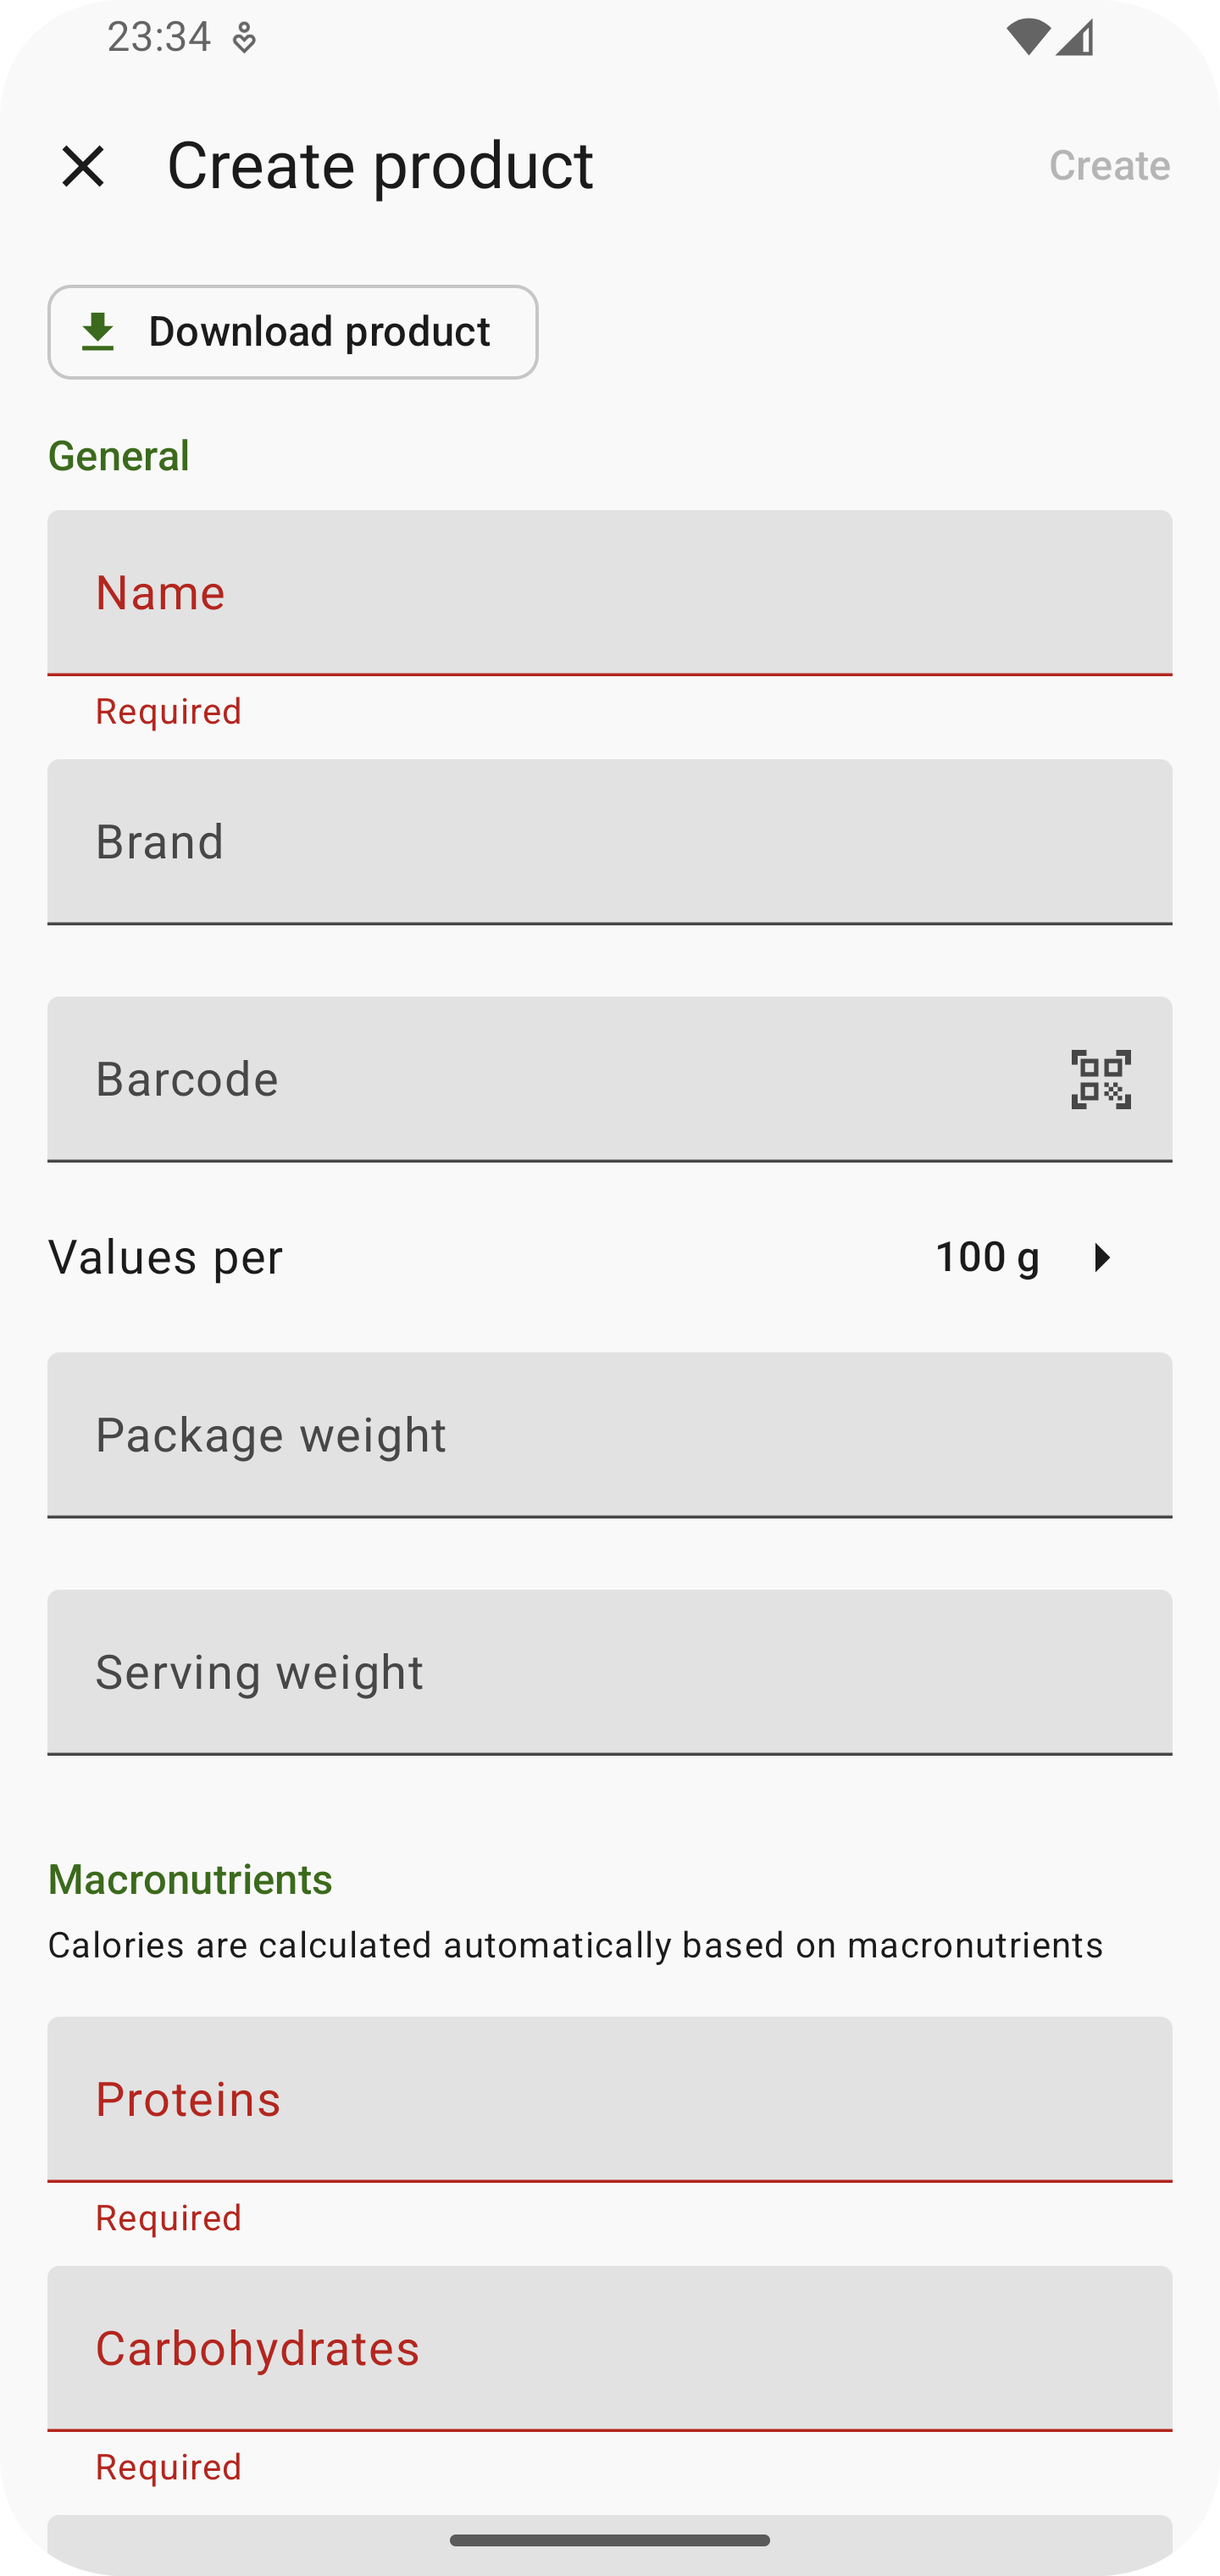
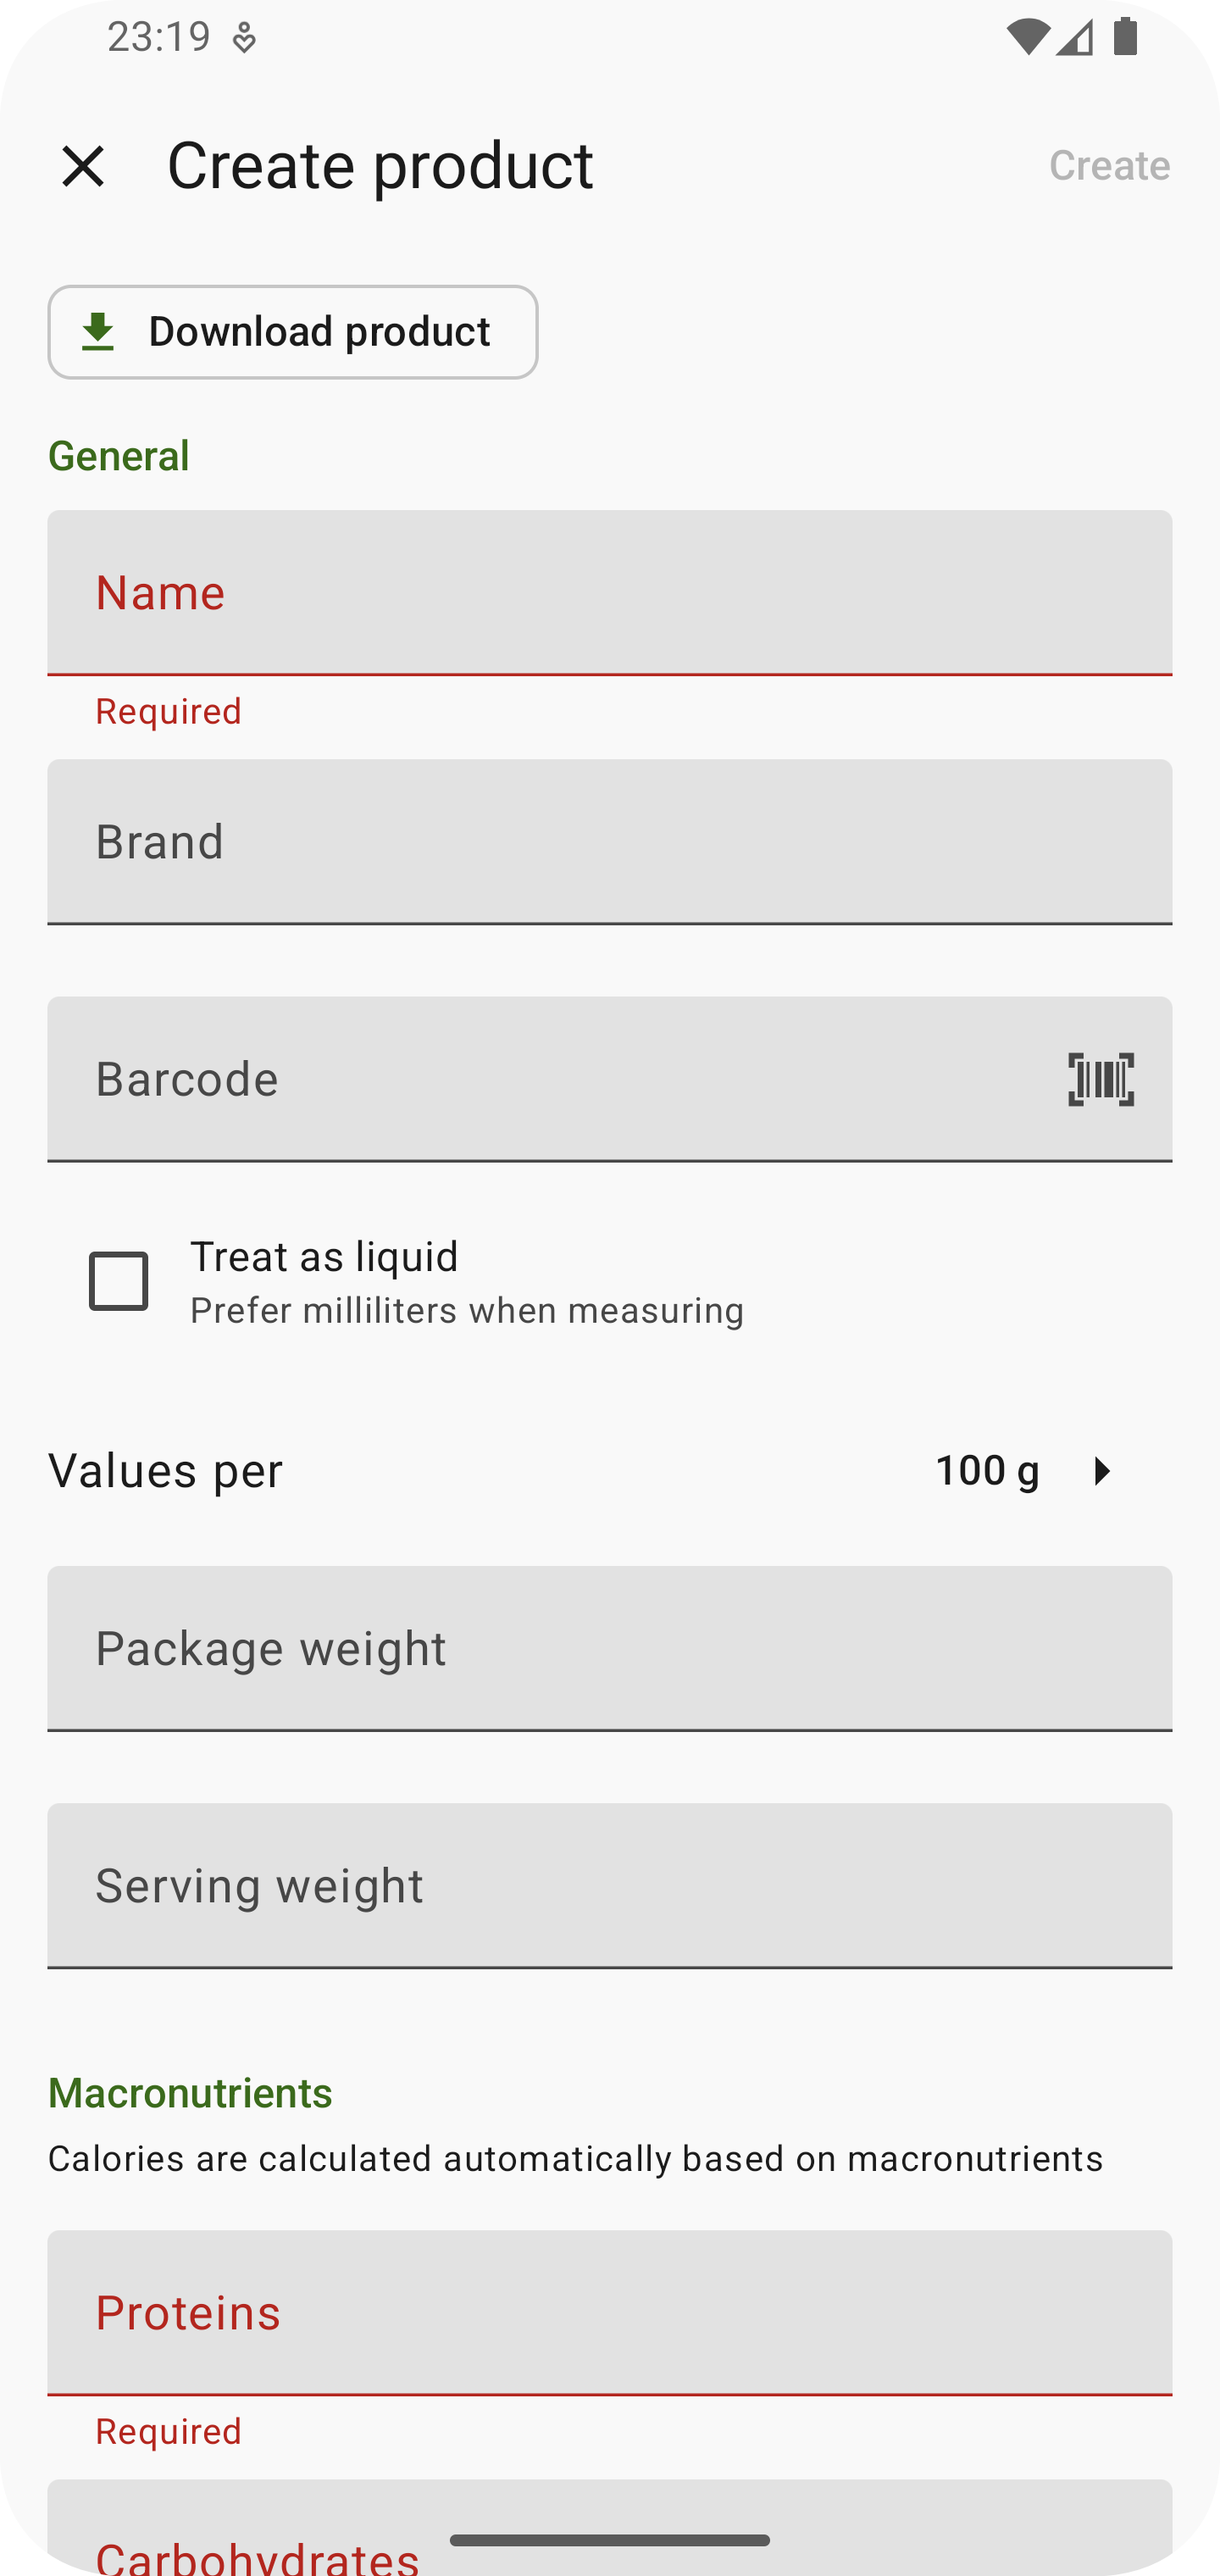
chore: release 2.9.0 (#166)

diff --git a/app/src/commonMain/kotlin/com/maksimowiczm/foodyou/data/Changelog.kt b/app/src/commonMain/kotlin/com/maksimowiczm/foodyou/data/Changelog.kt
@@ -15,7 +15,7 @@ import org.jetbrains.compose.resources.stringResource
 object Changelog {
     val versions
         get() = listOf(
-            next,
+            v2_9_0,
             v2_8_0,
             v2_7_2,
             v2_7_1,
@@ -32,16 +32,19 @@ object Changelog {
             v2_0_0
         )
 
-    val next = Version.next(
+    val v2_9_0 = Version(
+        version = "2.9.0",
+        date = LocalDate(2025, 6, 18),
         newFeatures = listOf(
             "Added donation screen. You can now support the app development by donating.",
             "Added liquid food. You can now create and track liquid products and recipes.",
             "Added personalization settings",
-            "Added nutrition facts personalization: You can now choose which nutrition facts to display and in what order within the app."
+            "Added nutrition facts personalization. You can now choose which nutrition facts to display and in what order within the app."
         ),
         changes = listOf(
             "Updated about screen",
-            "Move home settings to the personalize settings"
+            "Move home settings to the personalize settings",
+            "Fixed monochrome icon"
         ),
         bugFixes = listOf(),
         translations = listOf(),
